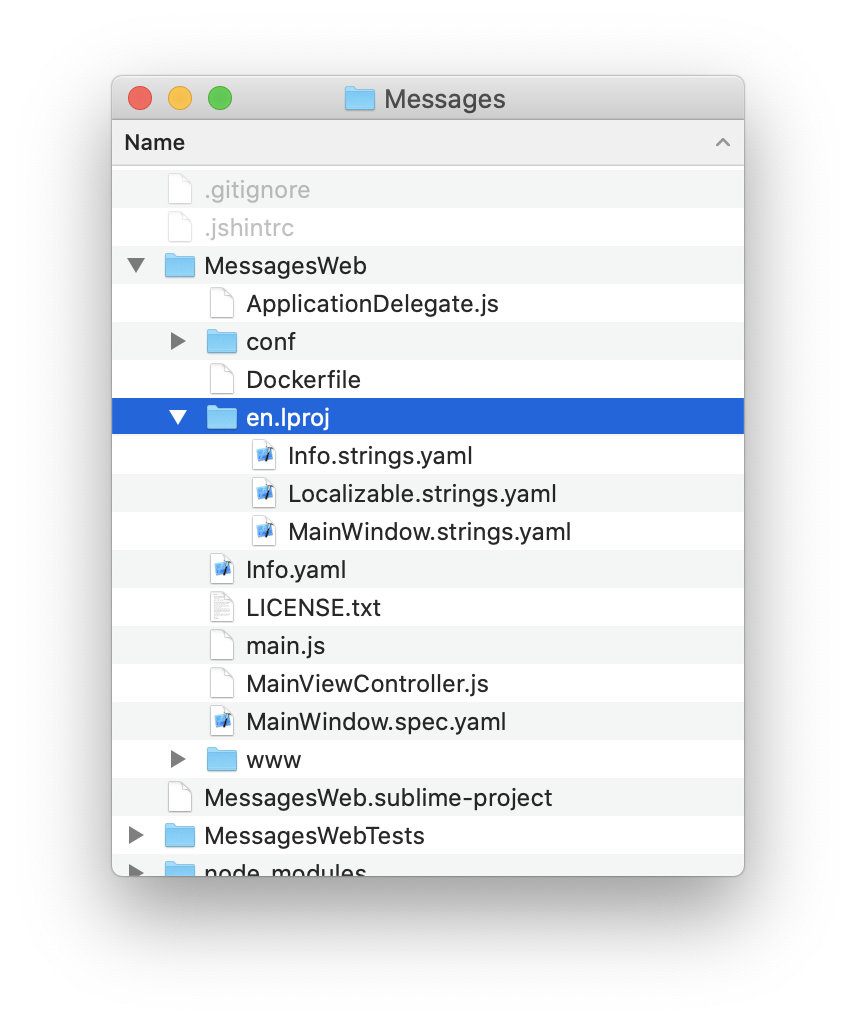
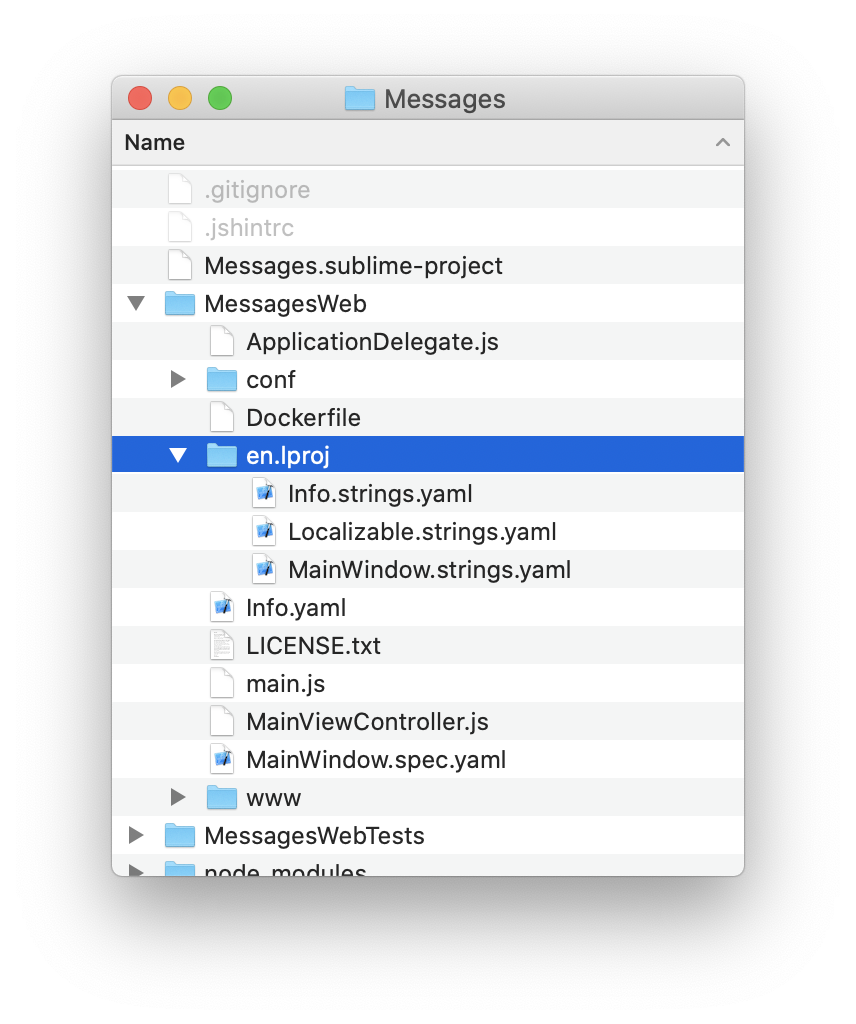
change jskit init to just to a workspace, so projects are always created the same way with jskit add

Changed region(s): [[0.1215, 0.25, 0.8808, 0.8125], [0.1822, 0.7188, 0.2126, 0.7812]]

diff --git a/Command/jskit/InitCommand.js b/Command/jskit/InitCommand.js
@@ -7,11 +7,9 @@
 JSClass("InitCommand", Command, {
 
     name: "init",
-    help: "Initialize a workspace with a project",
+    help: "Initialize a workspace",
 
     options: {
-        template: {kind: "positional", help: "The project template to use as a starting point", allowed: ["html", "http", "node", "framework"]},
-        name: {kind: "positional", default: null, help: "The name for your initial project"}
     },
 
     run: async function(){
@@ -26,27 +24,18 @@ JSClass("InitCommand", Command, {
         }
         if (!isEmpty){
             process.stdout.write("jskit init can only be used in an empty directory\n");
-            process.stdout.write("Use jskit add to add projects to an existing workspace\n");
             return;
         }
         var printer = Printer.initWithLabel('init');
-        printer.setStatus("Initializing %s workspace...".sprintf(this.arguments.template));
-        var projectName = this.arguments.name || workspaceURL.lastPathComponent;
+        printer.setStatus("Initializing workspace...");
+        var workspaceName = workspaceURL.lastPathComponent;
         var templatesURL = this.fileManager.urlForPath(JSKitRootDirectoryPath).appendingPathComponent("Templates", true);
 
         var workspaceTemplateURL = templatesURL.appendingPathComponent("workspace");
         var workspaceTemplate = Template.initWithURL(workspaceTemplateURL, this.fileManager);
-        await workspaceTemplate.addToWorkspace(workspaceURL, projectName);
+        await workspaceTemplate.addToWorkspace(workspaceURL, workspaceName);
 
-        var templateURL = templatesURL.appendingPathComponent(this.arguments.template);
-        var template = Template.initWithURL(templateURL, this.fileManager);
-        await template.addToWorkspace(workspaceURL, projectName);
-
-        var testsTemplateURL = templatesURL.appendingPathComponent("project-tests");
-        var testsTemplate = Template.initWithURL(testsTemplateURL, this.fileManager);
-        await testsTemplate.addToWorkspace(workspaceURL, projectName);
-
-        printer.setStatus("%s workspace initialized".sprintf(this.arguments.template));
+        printer.setStatus("workspace initialized");
         printer.print("");
     },
 

diff --git a/Command/jskit/AddCommand.js b/Command/jskit/AddCommand.js
@@ -26,10 +26,44 @@ JSClass("AddCommand", Command, {
         var template = Template.initWithURL(templateURL, this.fileManager);
         await template.addToWorkspace(workspaceURL, projectName);
 
+        var sublimeURL = workspaceURL.appendingPathComponent(workspaceURL.lastPathComponent);
+        sublimeURL = sublimeURL.appendingFileExtension('sublime-project');
+        var projectJSON = await this.fileManager.contentsAtURL(sublimeURL);
+        var projectSettings = null;
+        if (projectJSON !== null){
+            projectSettings = JSON.parse(String.initWithData(projectJSON, String.Encoding.utf8));
+            if (!projectSettings.build_systems){
+                projectSettings.build_systems = [];
+            }
+            projectSettings.build_systems.push({
+                "name": projectName,
+                "cmd": ["npx", "jskit", "make", projectName],
+                "working_dir": "${project_path}",
+                "variants": [
+                    {
+                        "name": "debug",
+                        "cmd": ["npx", "jskit", "make", "--debug", projectName]
+                    }
+                ]
+            });
+        }
+
         if (this.arguments.template !== 'tests'){
             var testsTemplateURL = templatesURL.appendingPathComponent("project-tests");
             var testsTemplate = Template.initWithURL(testsTemplateURL, this.fileManager);
             await testsTemplate.addToWorkspace(workspaceURL, projectName);
+            if (projectSettings !== null){
+                projectSettings.build_systems.push({
+                    "name": "%s Tests".sprintf(projectName),
+                    "cmd": ["npx", "jskit", "test", "%sTests".sprintf(projectName)],
+                    "working_dir": "${project_path}"
+                });
+            }
+        }
+
+        if (projectSettings !== null){
+            projectJSON = JSON.stringify(projectSettings).utf8();
+            await this.fileManager.createFileAtURL(sublimeURL, projectJSON);
         }
 
         printer.setStatus("%s added".sprintf(this.arguments.template));

diff --git a/Documentation/Code/UIKit/WebAppOrganization.md b/Documentation/Code/UIKit/WebAppOrganization.md
@@ -4,27 +4,24 @@ Creating a Web-based UIApplication
 *Throughout this document, we'll use the example of a Messages application.*
 
 Using the `jskit` command line utilty, a web-based application is created
-with the `jskit init`(jskit.init) subcommand.
+with the `jskit add`(jskit.add) subcommand.
 
-The first step is to create a workspace for your applications various
+The first step is to create a workspace for your application's various
 projects.  Even this simplest web application has two projects: the `UIKit` app
 itself and a companion `TestKit` project.
 ````
-$ cd ~/Document
+$ cd ~/Documents
 $ mkdir Messages
 $ cd Messages
-````
-
-Once you're in in the empty workspace folder, you'll need install `jskit`:
-````
 $ npm install jskit
+$ npx jskit init
 ````
 
-Now it's time to initialize the workspace with its first project.  Note that
-we're creating an `html`(jskit.init.html) project, which will result in a
+With the workspace initialized, you can add a project.  Note that
+we're creating an `html`(jskit.add.html) project, which will result in a
 web-based `UIKit` project:
 ````
-$ npx jskit init html MessagesWeb
+$ npx jskit add html MessagesWeb
 ````
 
 Workspace Organization
@@ -34,17 +31,17 @@ At this point, your workspace includes a few folders and files:
 
 ![Workspace Folders](WebAppOrganization/Workspace@2x.png)
 
-- `package-lock.json` and `node_modules/` are created by `npm` and are related
-  to how node.js manages intalled modules.
+- `package-lock.json` and `node_modules/` are created by `npm install` and are
+  related to how node.js manages intalled modules.
 - `.gitignore` is created by `jskit init` with defaults for items that should
   be ignored by `git`
 - `.jshintrc` is created by `jskit init` to include a list of globals that
-  are availble to a `JSKit` based project
+  are availble to `JSKit` based projects
+- `Messages.sublime-project` is created by `jskit init` to provide a project
+  organization for the SublimeText editor
 - `MessagesWeb/` is your `UIKit` based project
 - `MessagesWebTests/` is your `TestKit` based project, automatically created by
-  `jskit init`
-- `MessagesWeb.sublime-project` is created by `jskit init` to provide defaults
-  for the SublimeText editor
+  `jskit add`
 
 The files you'll be most intersted in editing are inside the `MessagesWeb/`
 and `MessagesWebTests/` folders, the two projects in the workspace.
@@ -52,7 +49,7 @@ and `MessagesWebTests/` folders, the two projects in the workspace.
 Project Organization
 ===========
 
-Each project created by `jskit init` comes from a template that includes
+Each project created by `jskit add` comes from a template that includes
 a few basic things to get the project going.
 
 Taking a look inside the `MessagesWeb/` project, we see
@@ -245,7 +242,7 @@ can easly accomodate other languages saves major headaches down the road.
 Every `UIKit` based app contains one or more `.lproj` folders.  By default,
 an `en.lproj` folder is created as part of your project template.
 
-Inside `en.lproj` are `.string.yaml` files that define a mapping of keys to
+Inside `en.lproj` are `.strings.yaml` files that define a mapping of keys to
 values:
 
 ![en.lproj folder contents](WebAppOrganization/lproj@2x.png)
